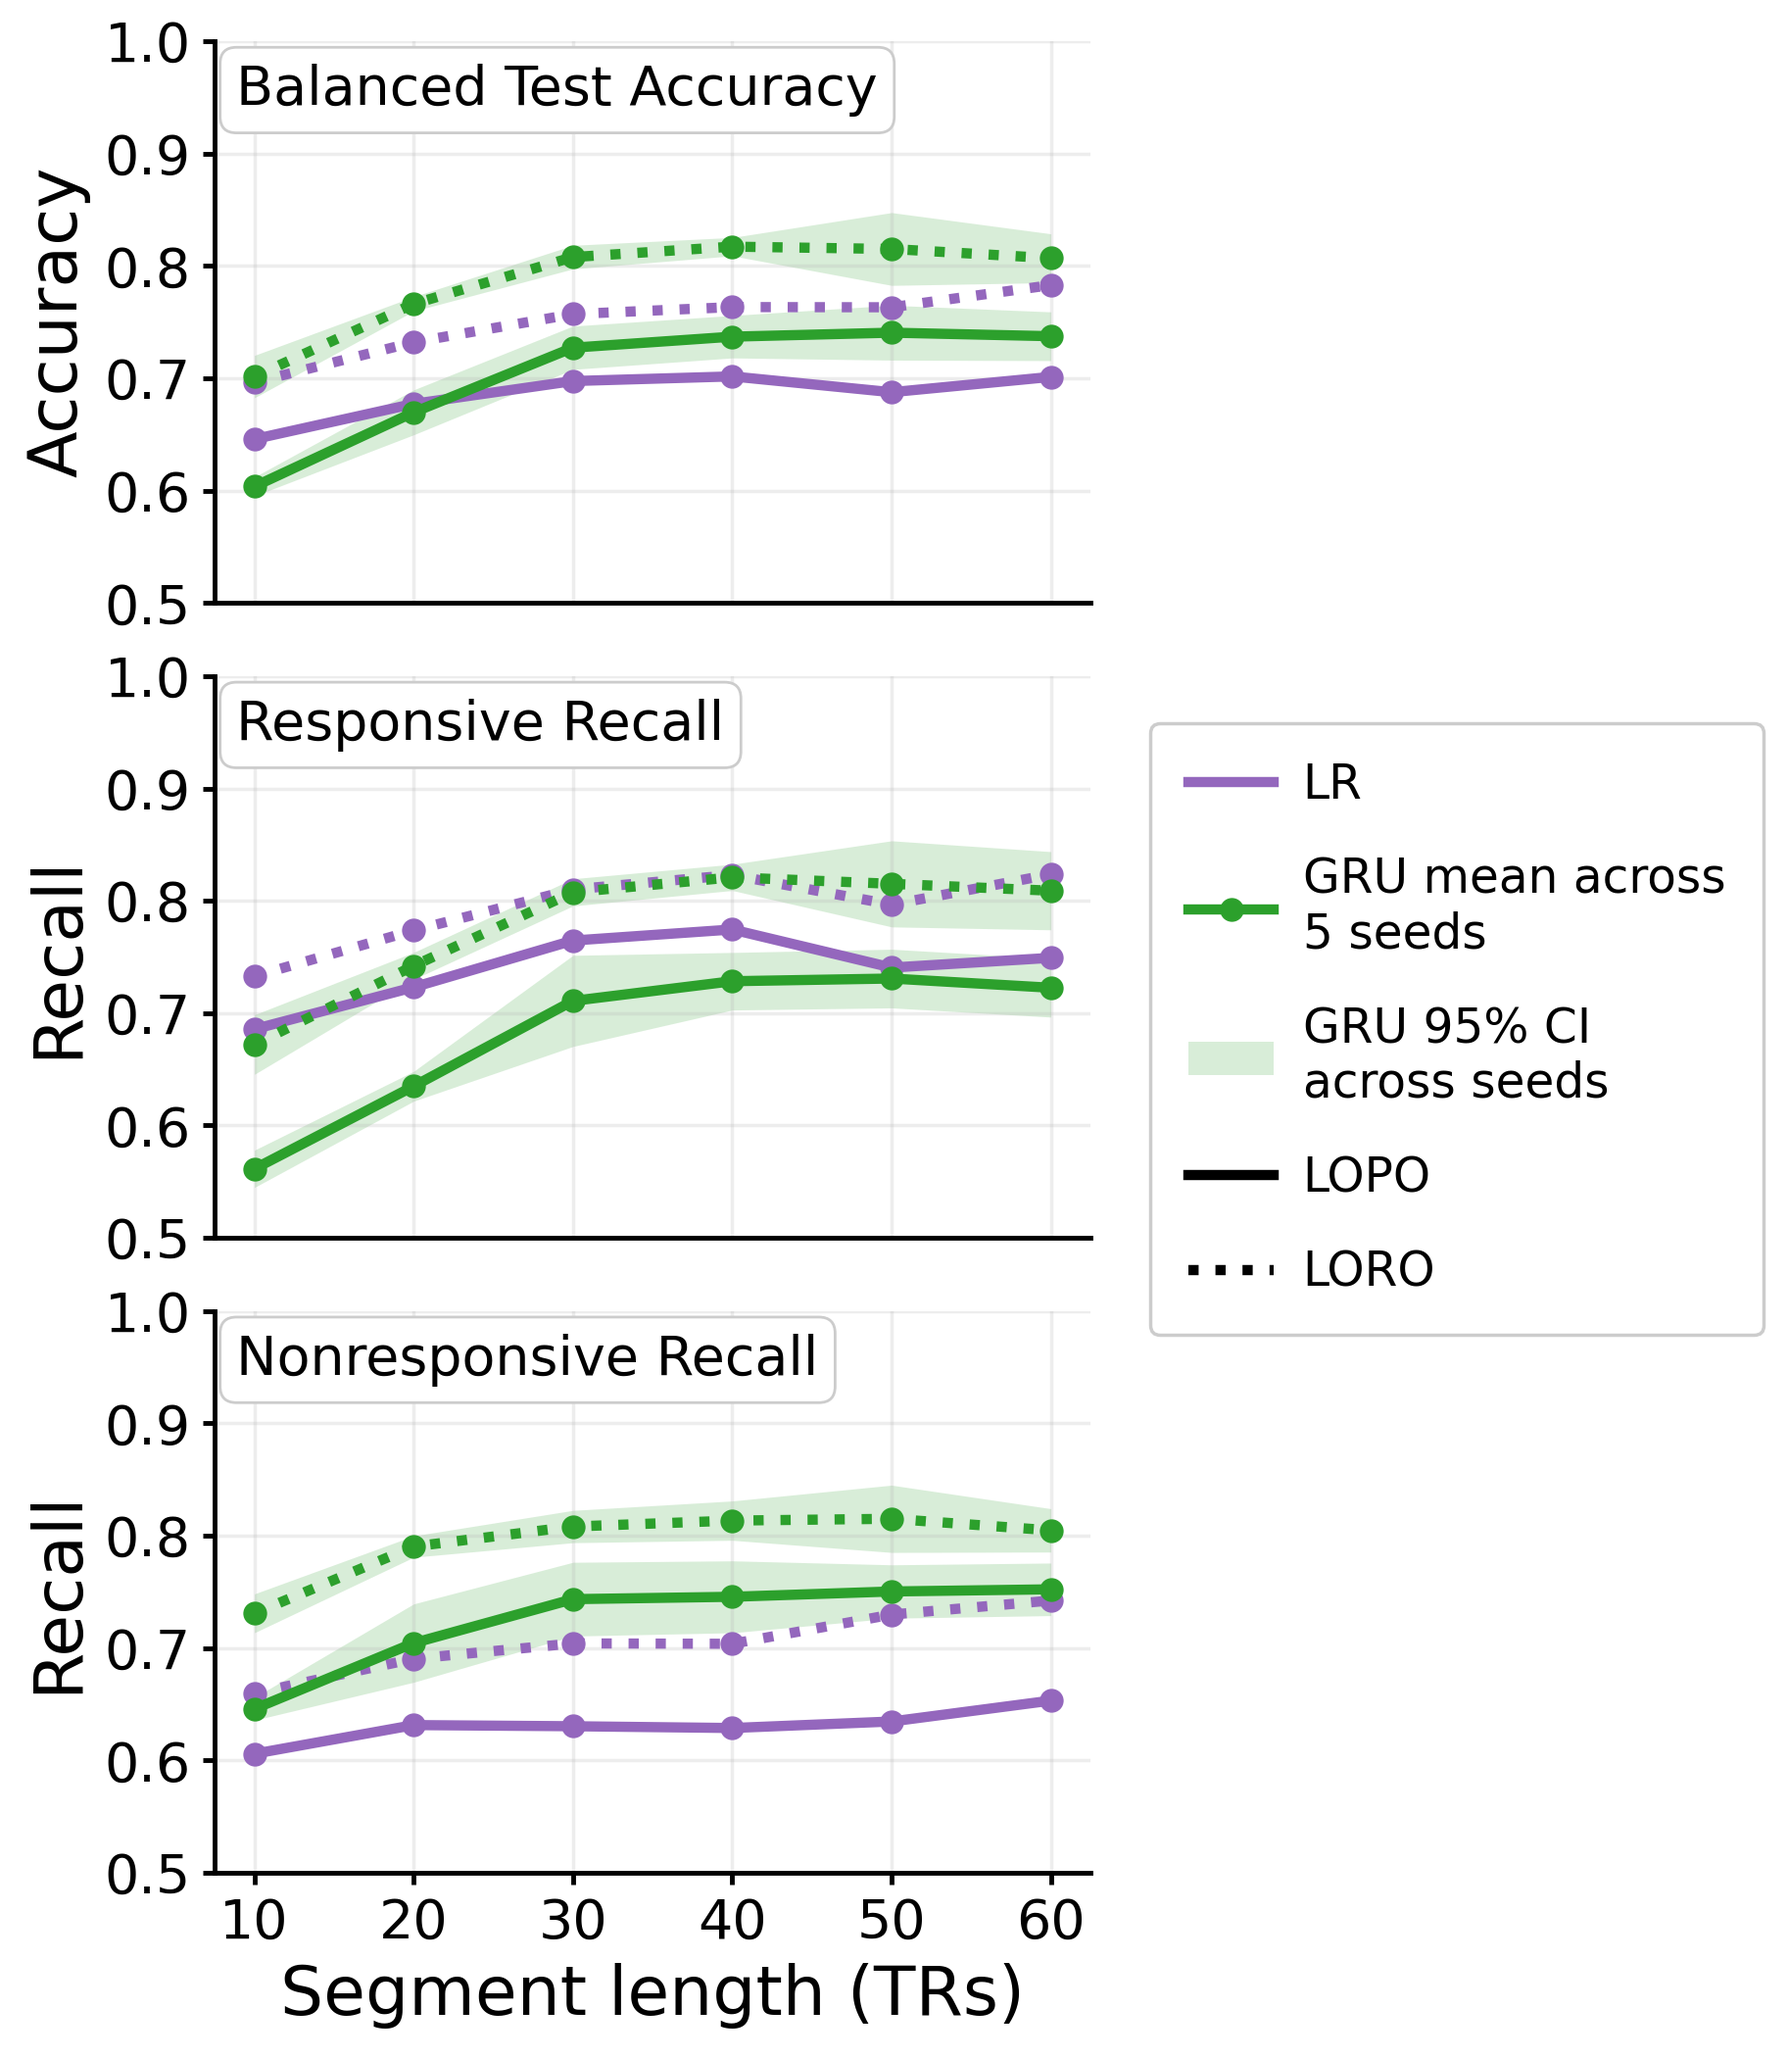
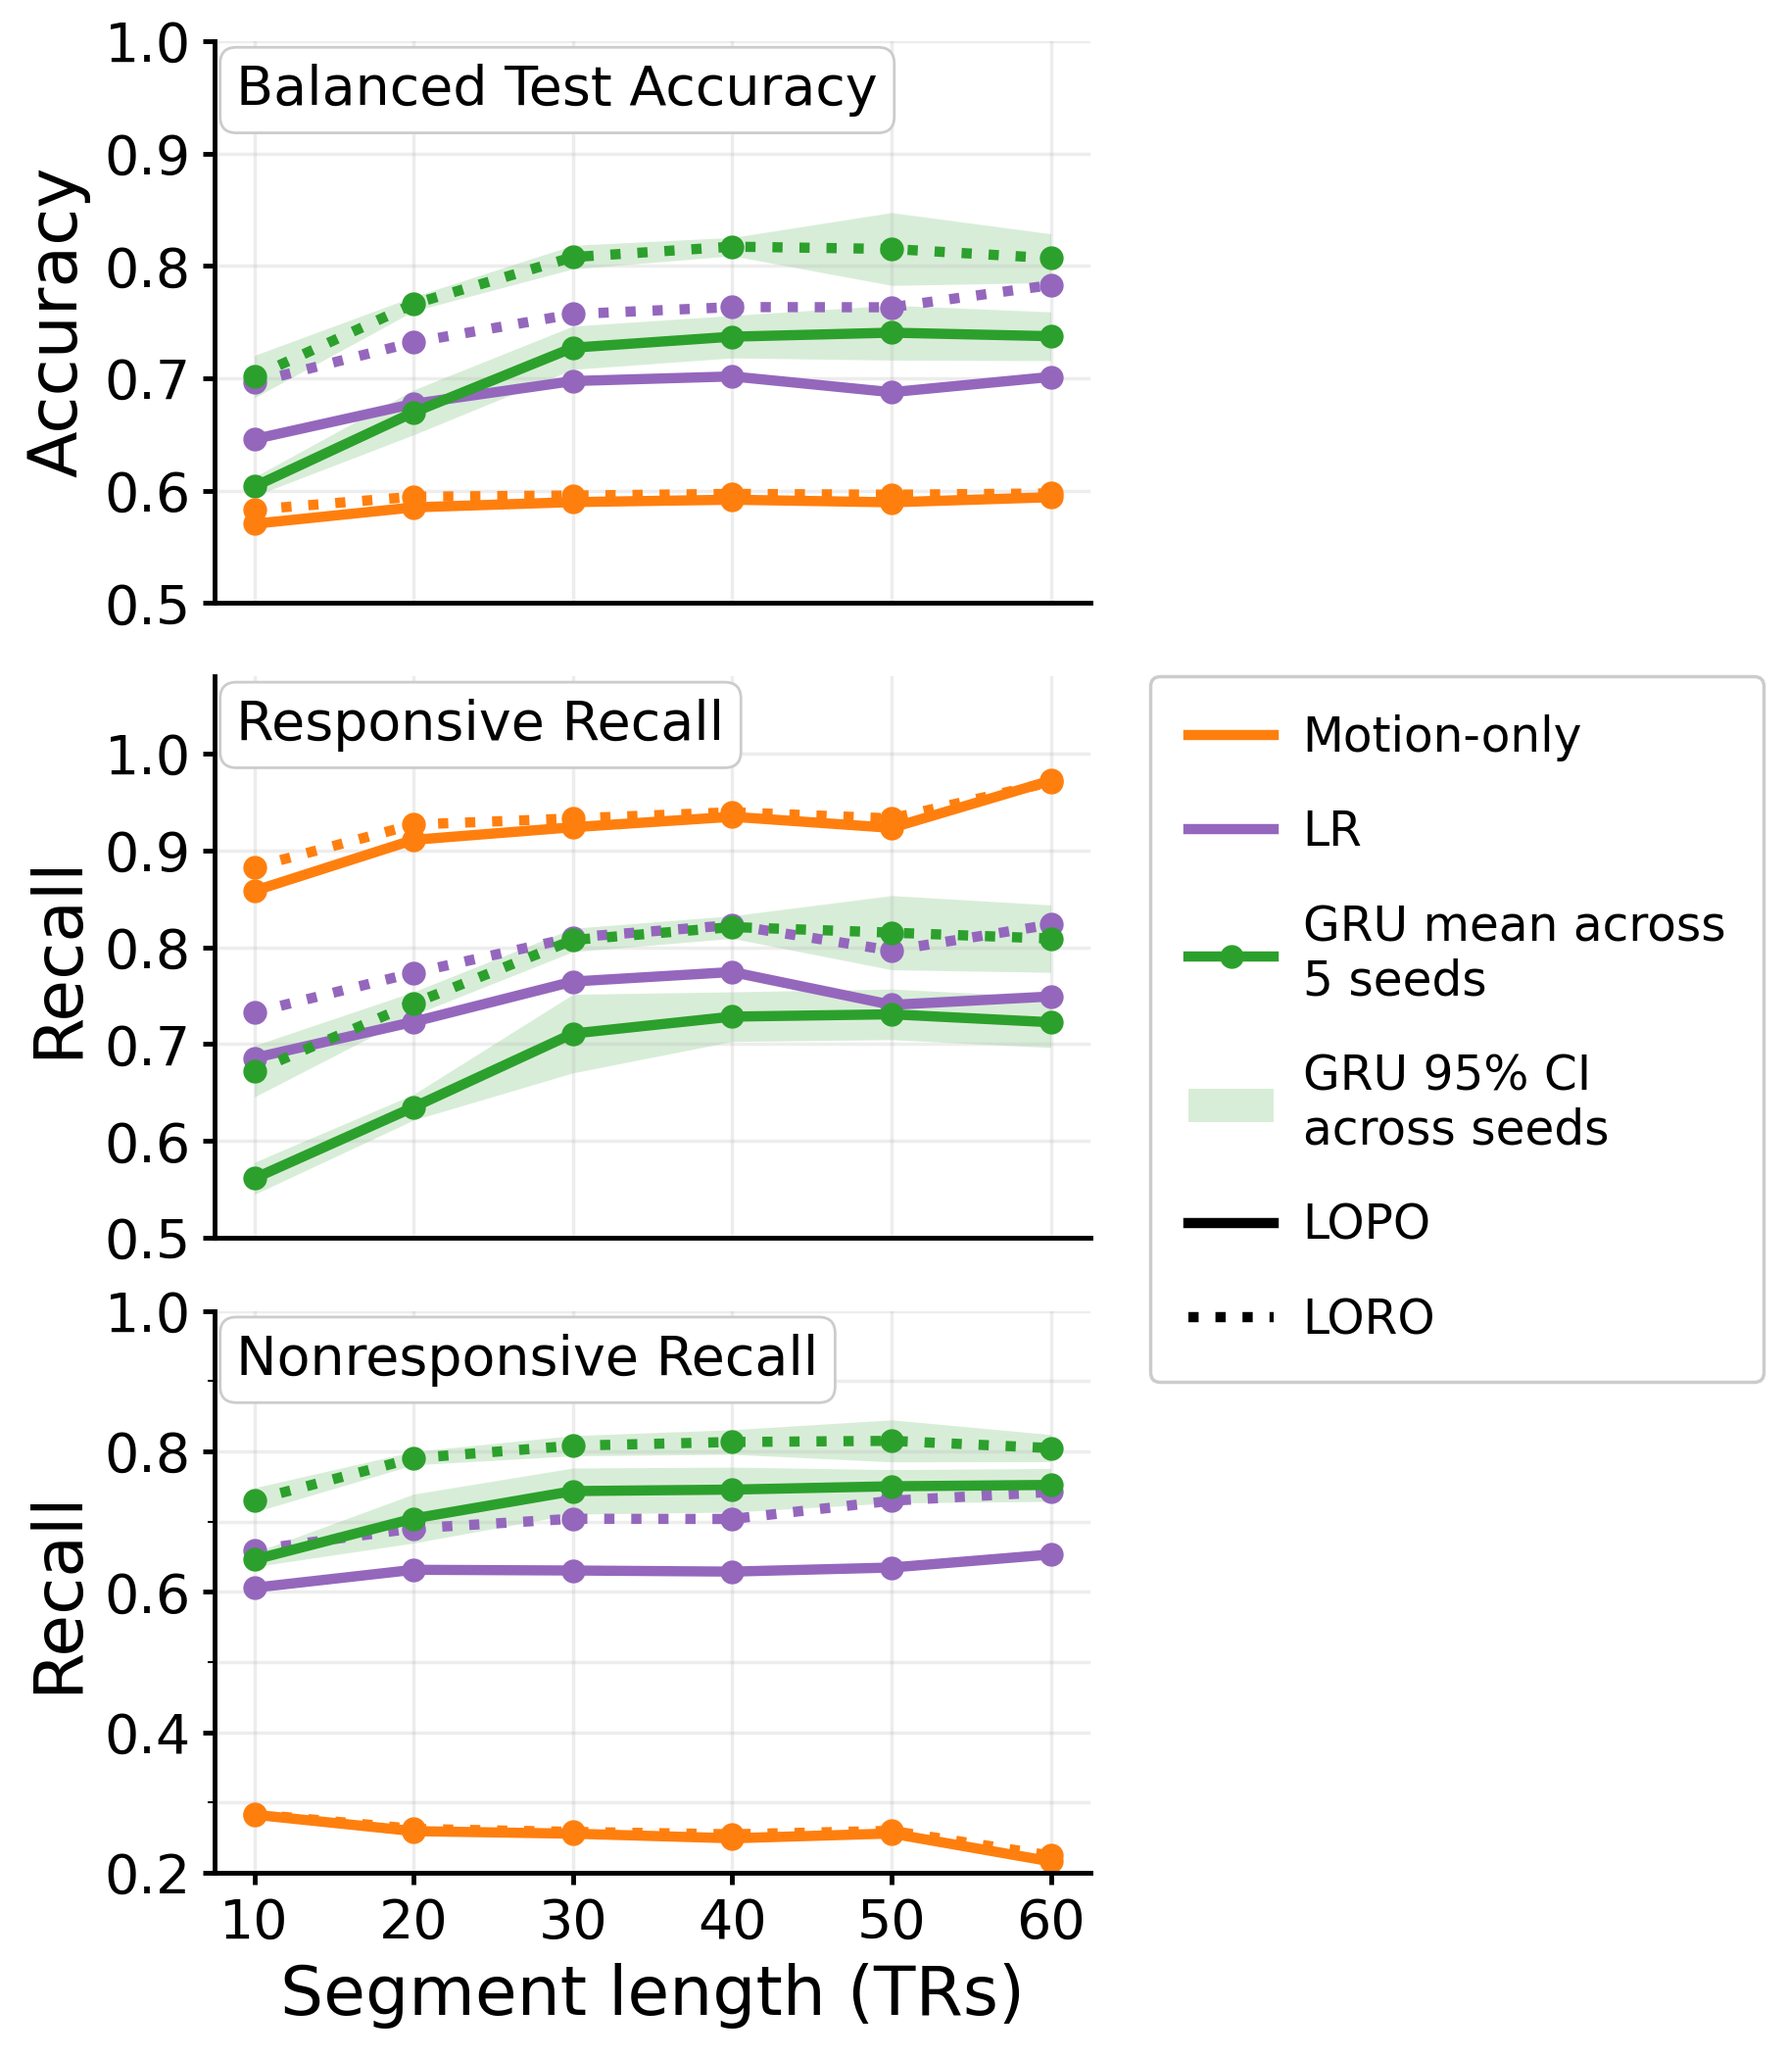
updated visualization to include motion results

diff --git a/visualizations.py b/visualizations.py
@@ -1,4 +1,4 @@
-"""Plot GRU and fixed-C LR together across segment lengths (trim disabled)."""
+"""Compare GRU, ROI-feature LR, and motion-only LR (trim disabled)."""
 
 import json
 from pathlib import Path
@@ -13,6 +13,7 @@ from scipy.stats import t
 CLASSIFIER_DIR = Path("plots/fMRI_classifier_exploration2")
 RESULTS_DIR = CLASSIFIER_DIR / "results"
 LR_DIR = Path("plots/LR")
+MOTION_DIR = Path("plots/motion_classifier")
 LENGTHS = np.arange(10, 61, 10)
 METRICS = {
     "balanced_test_accuracy": "Balanced Test Accuracy",
@@ -28,7 +29,7 @@ GRU_PARAMETERS = {
     "model": "GRU", "pool": "final", "hidden": 32, "drop": 0.2,
     "epochs": 30, "batch": 32, "lr": 1e-3, "wd": 1e-3,
 }
-COLORS = {"LR": "tab:purple", "GRU": "tab:green"}
+COLORS = {"LR": "tab:purple", "GRU": "tab:green", "Motion-only": "tab:orange"}
 STYLES = {"lopo": "-", "loro": ":"}
 
 
@@ -80,17 +81,52 @@ def load_lr_results(root=LR_DIR, c=0.01):
     return selected
 
 
-def visualize_length_and_trim(df, lr_results=None):
-    """Return one compact three-panel figure with LR/GRU and LOPO/LORO.
+def load_motion_results(root=MOTION_DIR, c=0.01, fd_threshold=0.25):
+    """Read the new motion-only runs with matching segmentation and fixed C."""
+    rows = []
+    expected_features = ["mean_fd", "max_fd", "median_fd", "sd_fd",
+                         f"fraction_fd_above_{fd_threshold:g}"]
+    for path in sorted(Path(root).rglob("*_summary.csv")):
+        settings_path = path.parent / "settings.json"
+        if not settings_path.exists():
+            continue
+        settings = json.loads(settings_path.read_text())
+        if (settings.get("c") != c or settings.get("fd_threshold") != fd_threshold
+                or settings.get("features") != expected_features):
+            continue
+        if path.name != f"{settings['analysis'].lower()}_summary.csv":
+            continue
+        for summary in pd.read_csv(path).to_dict("records"):
+            rows.append({
+                **{key: settings[key] for key in SEGMENT_PARAMETERS},
+                "segment_length": settings["segment_length"],
+                "segment_stride": settings["segment_stride"],
+                "trim": settings["trim_responsive_intervals"],
+                "analysis": settings["analysis"],
+                **{metric: summary[metric] for metric in METRICS},
+            })
+    if not rows:
+        raise ValueError("No matching fixed-C motion-only results found.")
+    selected = select_results(pd.DataFrame(rows), SEGMENT_PARAMETERS).drop_duplicates()
+    if selected.duplicated(["analysis", "segment_length"]).any():
+        raise ValueError("Conflicting motion-only results for the same analysis/length.")
+    return selected
+
+
+def visualize_length_and_trim(df, lr_results=None, motion_results=None):
+    """Return one three-panel figure with ROI LR, GRU, and motion-only LOPO/LORO.
 
     Color encodes model; solid/dotted lines encode LOPO/LORO. GRU shading is
     a 95% Student-t interval for the mean across seeds, not across participants.
-    Deterministic LR has no seed interval; unavailable lengths remain missing.
+    Deterministic LR and motion-only fits have no seed interval; unavailable lengths remain missing.
     """
     gru = select_results(df, {**SEGMENT_PARAMETERS, **GRU_PARAMETERS})
     lr = load_lr_results() if lr_results is None else select_results(lr_results, SEGMENT_PARAMETERS)
-    if gru.empty or lr.empty:
-        raise ValueError("Matching GRU and LR results are both required.")
+    motion = (load_motion_results() if motion_results is None
+              else select_results(motion_results, SEGMENT_PARAMETERS))
+    if gru.empty or lr.empty or motion.empty:
+        raise ValueError("Matching GRU, LR, and motion-only results are required.")
+    deterministic = {"LR": lr, "Motion-only": motion}
     if "seed" not in gru or gru["seed"].isna().any():
         raise ValueError("GRU results must have valid seed values.")
     per_seed = gru.groupby(["analysis", "segment_length", "seed"])[list(METRICS)].mean()
@@ -103,7 +139,7 @@ def visualize_length_and_trim(df, lr_results=None):
         fig, axes = plt.subplots(3, 1, figsize=(7.3, 8.4), sharex=True)
         fig.subplots_adjust(left=0.12, right=0.61, bottom=0.09, top=0.98, hspace=0.13)
         for ax, (metric, ylabel) in zip(axes, METRICS.items()):
-            for model in ("LR", "GRU"):
+            for model in ("LR", "GRU", "Motion-only"):
                 for analysis, linestyle in STYLES.items():
                     means = np.full(len(LENGTHS), np.nan)
                     widths = means.copy()
@@ -113,9 +149,10 @@ def visualize_length_and_trim(df, lr_results=None):
                                 continue
                             values = per_seed.loc[(analysis, length), metric].dropna().to_numpy()
                         else:
-                            values = lr.loc[lr.analysis.eq(analysis) & lr.segment_length.eq(length), metric].dropna().to_numpy()
+                            results = deterministic[model]
+                            values = results.loc[results.analysis.eq(analysis) & results.segment_length.eq(length), metric].dropna().to_numpy()
                             if len(values) > 1:
-                                raise ValueError("LR must have one deterministic result per analysis/length.")
+                                raise ValueError(f"{model} must have one deterministic result per analysis/length.")
                         if not len(values):
                             continue
                         means[i] = values.mean()
@@ -133,9 +170,16 @@ def visualize_length_and_trim(df, lr_results=None):
                     ha="left", va="top", fontsize=16,
                     bbox=dict(facecolor="white", edgecolor="0.8",
                               linewidth=0.8, boxstyle="round,pad=0.3"))
-            ax.set_ylim(0.5, 1)
-            ax.set_yticks(np.arange(0.5, 1.01, 0.1))
-            ax.grid(alpha=0.22, linewidth=1)
+            lower = 0.2 if metric == "nonresponsive_recall" else 0.5
+            # Leave room for the label above motion-only responsive recall (~0.97).
+            upper = 1.08 if metric == "responsive_recall" else 1
+            ax.set_ylim(lower, upper)
+            if metric == "nonresponsive_recall":
+                ax.set_yticks(np.arange(0.2, 1.01, 0.2))
+                ax.set_yticks(np.arange(0.3, 1.0, 0.2), minor=True)
+            else:
+                ax.set_yticks(np.arange(lower, 1.01, 0.1))
+            ax.grid(which="both", alpha=0.22, linewidth=1)
             ax.spines["top"].set_visible(False)
             ax.spines["right"].set_visible(False)
         for ax in axes[:-1]:
@@ -143,6 +187,7 @@ def visualize_length_and_trim(df, lr_results=None):
         axes[-1].set_xticks(LENGTHS)
         axes[-1].set_xlabel("Segment length (TRs)")
         handles = [
+            Line2D([], [], color=COLORS["Motion-only"], linestyle="-", linewidth=3, label="Motion-only"),
             Line2D([], [], color=COLORS["LR"], linestyle="-", linewidth=3, label="LR"),
             Line2D([], [], color=COLORS["GRU"], linestyle="-", marker="o", markersize=6, linewidth=3,
                    label=f"GRU mean across\n{count_label} seeds"),
